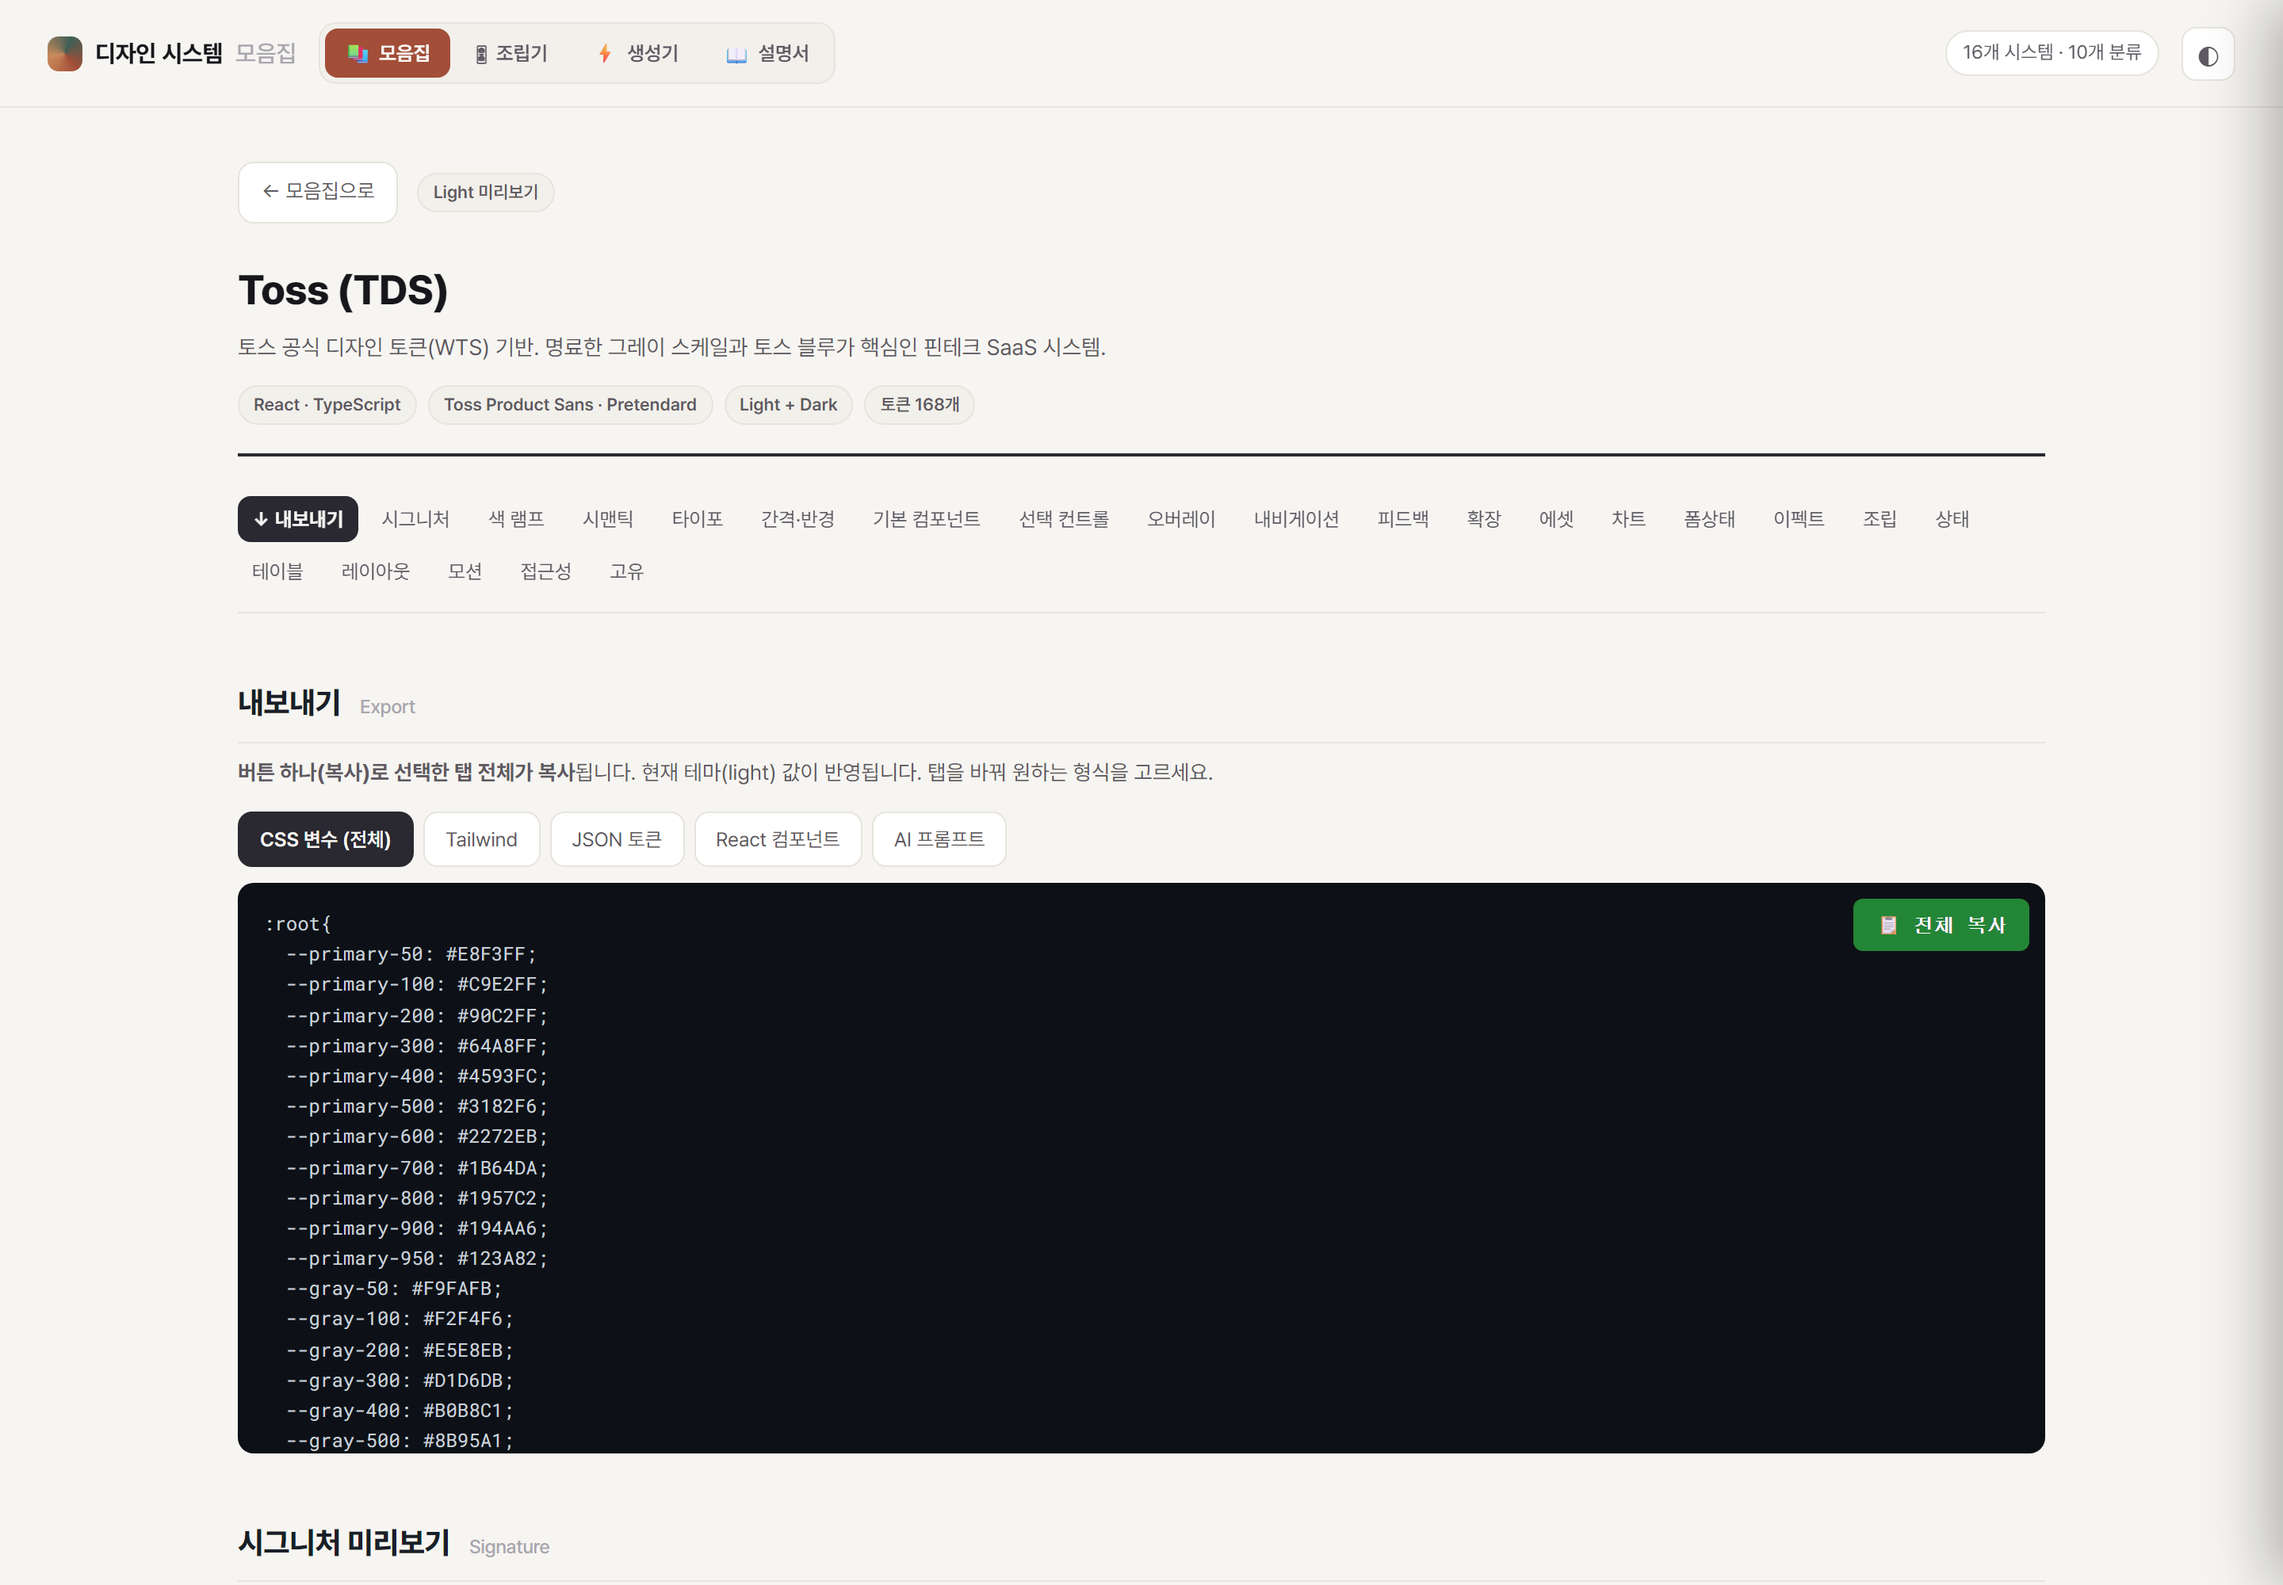
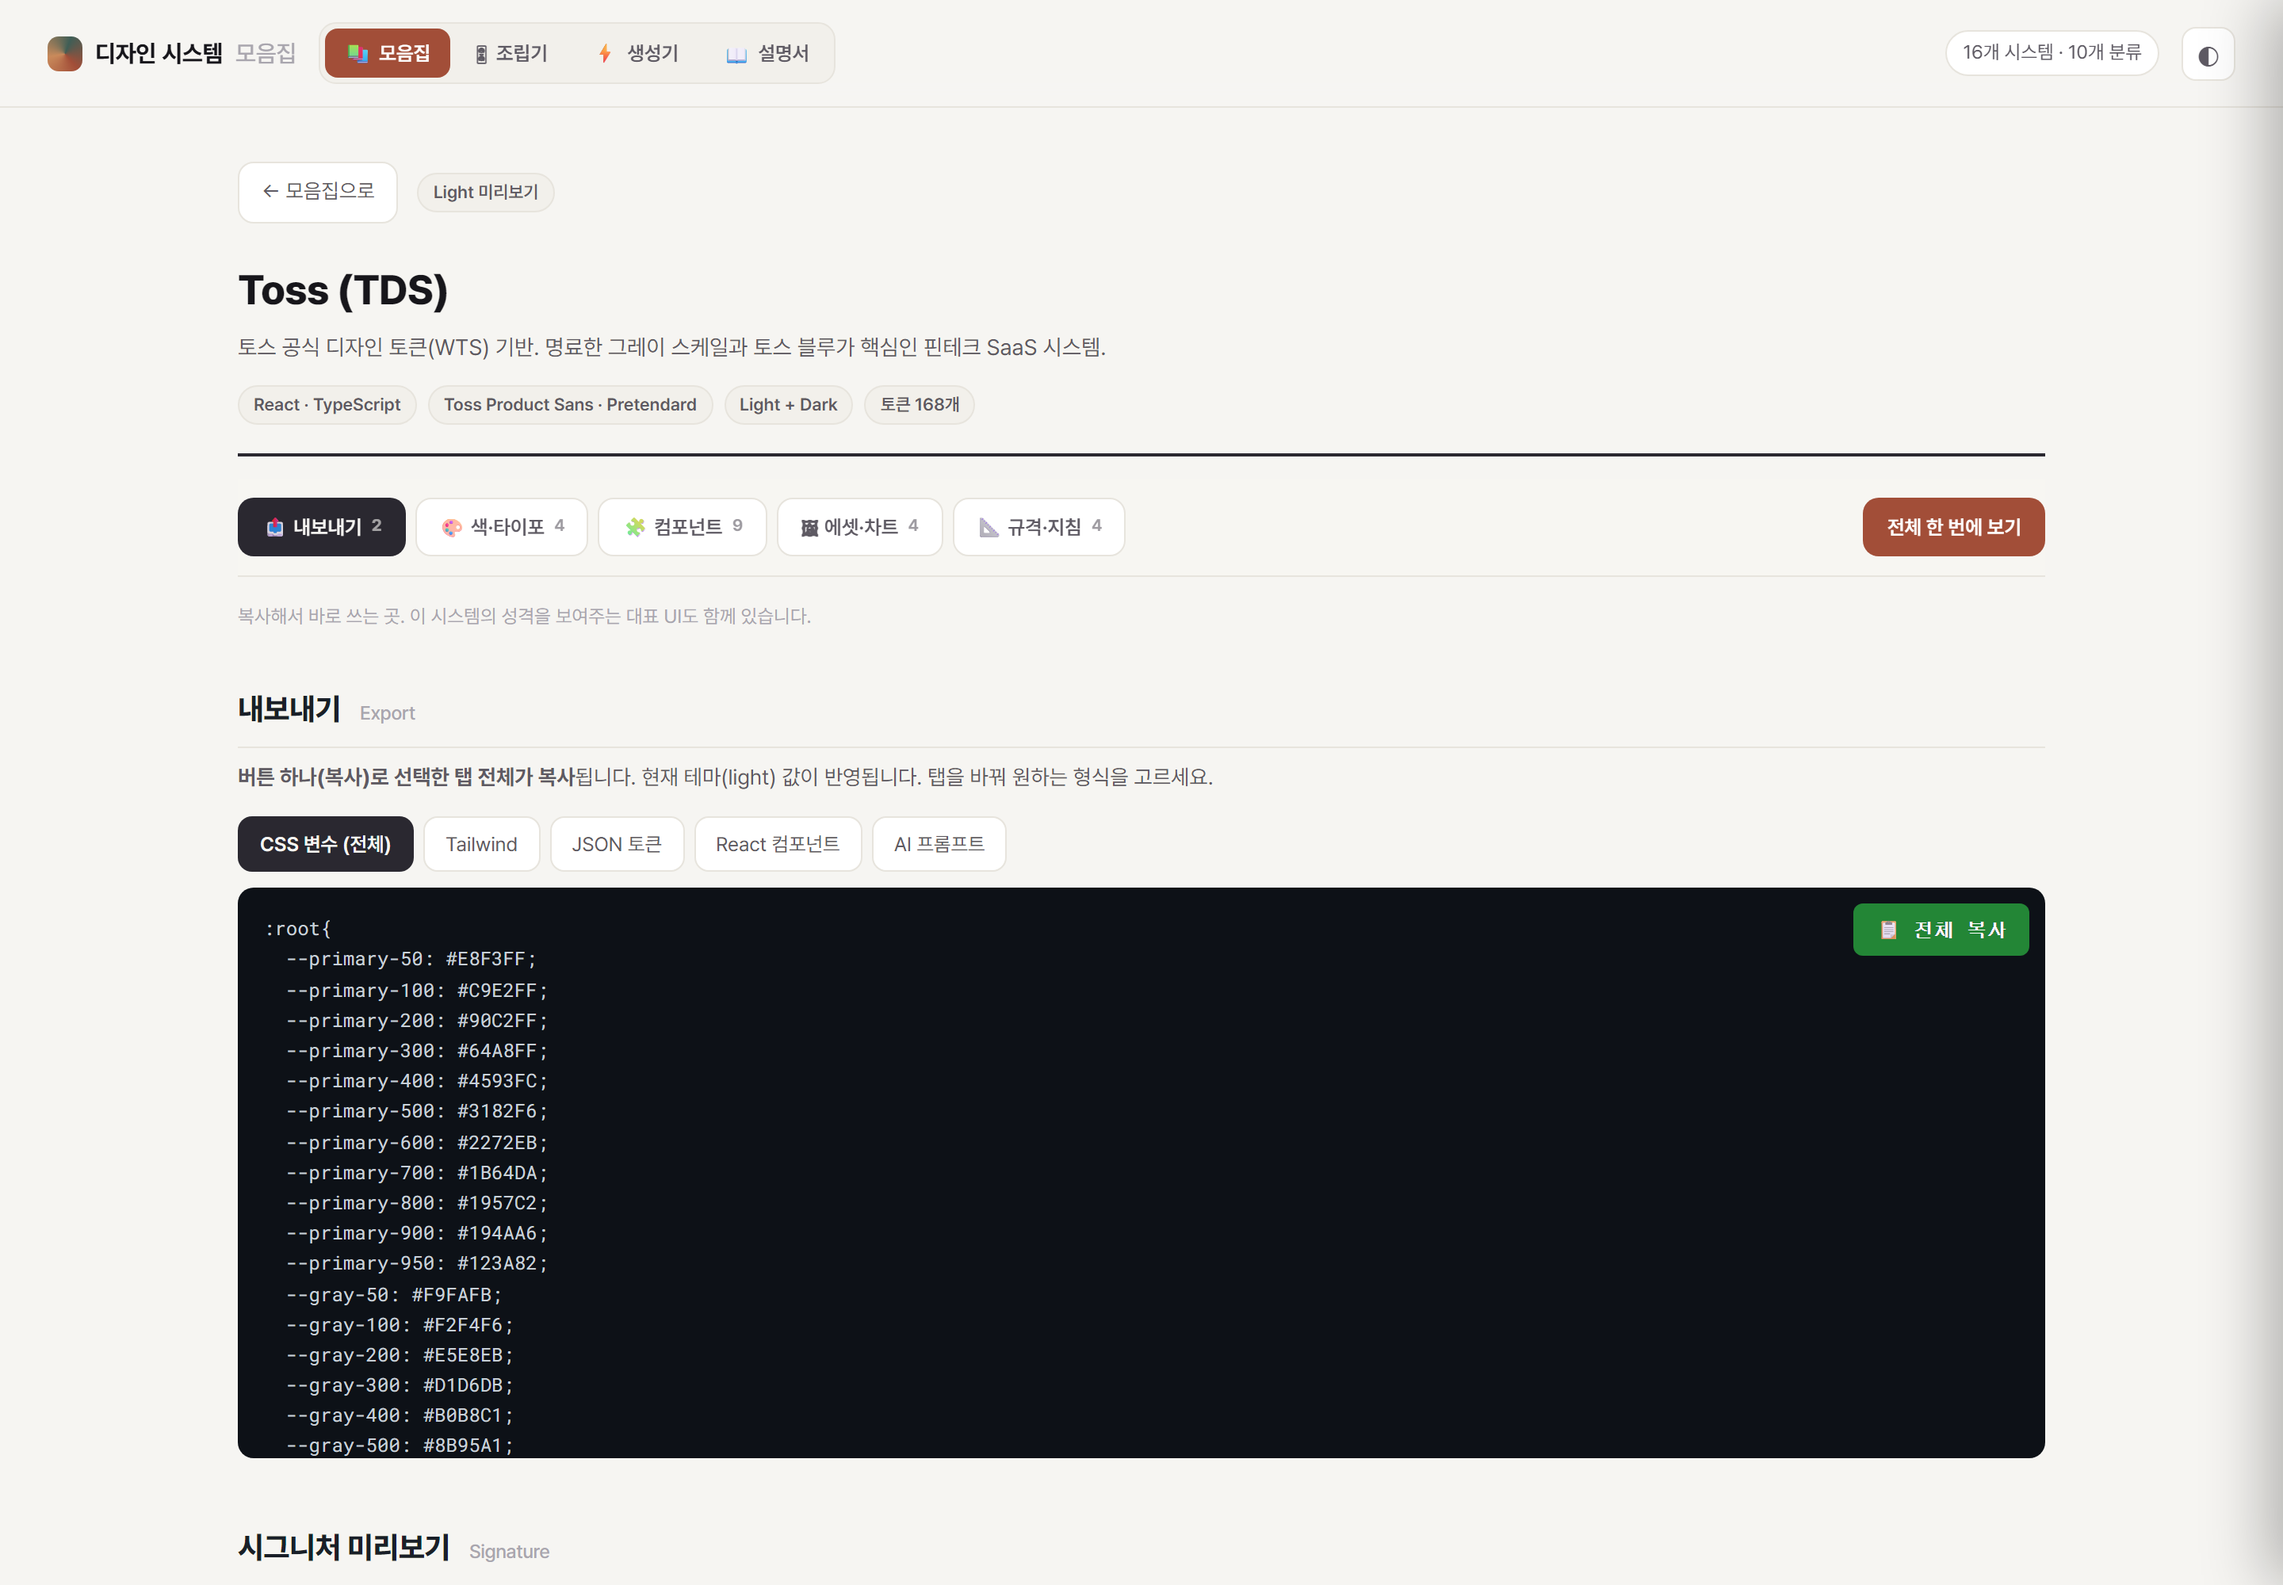
시스템 상세 내비게이션을 5개 그룹 탭으로 정리
22개 링크가 두 줄로 깔려 정신없던 문제 해결.
내보내기 / 색·타이포 / 컴포넌트 / 에셋·차트 / 규격·지침 으로 묶고
한 번에 한 그룹만 표시. '전체 한 번에 보기' 토글로 펼침 가능.

diff --git a/library.html b/library.html
@@ -186,6 +186,18 @@ a{color:inherit;text-decoration:none;}
 .dhead h1{font-size:26px;font-weight:800;letter-spacing:-.02em;margin:0 0 6px;}
 .dhead .sub{color:var(--ui-fg-lower);font-size:14px;max-width:74ch;}
 .dhead .meta{margin-top:12px;display:flex;flex-wrap:wrap;gap:7px;}
+.dtabs{position:sticky;top:57px;z-index:40;display:flex;gap:6px;flex-wrap:wrap;align-items:center;
+  background:color-mix(in srgb,var(--ui-canvas) 92%,transparent);backdrop-filter:blur(8px);
+  padding:12px 0;margin:14px 0 0;border-bottom:1px solid var(--ui-border);}
+.dtabs button{border:1px solid var(--ui-border);background:var(--ui-panel);color:var(--ui-fg-lower);
+  font:inherit;font-size:12.5px;font-weight:600;padding:8px 14px;border-radius:10px;cursor:pointer;
+  display:inline-flex;align-items:center;gap:6px;}
+.dtabs button:hover{border-color:var(--ui-fg-dim);color:var(--ui-fg-strong);}
+.dtabs button.on{background:var(--ui-fg-strong);color:var(--ui-canvas);border-color:transparent;}
+.dtabs button .cnt{font-size:10.5px;opacity:.6;font-weight:700;}
+.dtabs .exp{margin-left:auto;background:var(--ui-accent)!important;color:#fff!important;border-color:transparent!important;}
+.dsec.hide{display:none;}
+.grouphint{font-size:12px;color:var(--ui-fg-dim);margin:16px 0 -8px;}
 .dnav{position:sticky;top:57px;z-index:40;display:flex;flex-wrap:wrap;gap:4px 6px;background:color-mix(in srgb,var(--ui-canvas) 90%,transparent);backdrop-filter:blur(8px);padding:11px 0;margin:14px 0 0;border-bottom:1px solid var(--ui-border);font-size:12.5px;}
 .dnav a{color:var(--ui-fg-lower);padding:5px 9px;border-radius:8px;}
 .dnav a:hover{background:var(--ui-panel-2);color:var(--ui-fg-strong);}
@@ -578,14 +590,8 @@ footer{margin-top:60px;padding-top:20px;border-top:1px solid var(--ui-border);fo
   <div class="detail" id="detail">
     <div class="backbar"><button class="backbtn" onclick="showCatalog()">← 모음집으로</button><span class="pill" id="dCrumb"></span></div>
     <div class="dhead"><h1 id="dTitle"></h1><div class="sub" id="dSub"></div><div class="meta" id="dMeta"></div></div>
-    <div class="dnav">
-      <a href="#s-export" style="background:var(--ui-fg-strong);color:var(--ui-canvas);font-weight:700">↓ 내보내기</a>
-      <a href="#s-sig">시그니처</a>
-      <a href="#s-color">색 램프</a><a href="#s-semantic">시맨틱</a><a href="#s-type">타이포</a><a href="#s-space">간격·반경</a>
-      <a href="#s-comp">기본 컴포넌트</a><a href="#s-select">선택 컨트롤</a><a href="#s-overlay">오버레이</a><a href="#s-nav">내비게이션</a>
-      <a href="#s-feed">피드백</a><a href="#s-more">확장</a><a href="#s-assets">에셋</a><a href="#s-charts">차트</a><a href="#s-formstate">폼상태</a><a href="#s-fx">이펙트</a><a href="#s-build">조립</a><a href="#s-state">상태</a><a href="#s-table">테이블</a><a href="#s-layout">레이아웃</a>
-      <a href="#s-motion">모션</a><a href="#s-a11y">접근성</a><a href="#s-extra">고유</a>
-    </div>
+    <div class="dtabs" id="dTabs"></div>
+    <div class="grouphint" id="dHint"></div>
     <div class="scope" id="scope"></div>
     <footer>디자인 시스템 모음집 · 단일 HTML, 의존성 없음 · 새 시스템 추가 = <code class="mono">SYSTEMS</code> 배열에 객체 하나 push.</footer>
   </div>
@@ -1525,7 +1531,7 @@ function renderRecs(){
 }
 $('#searchInput').oninput=e=>{curQuery=e.target.value;renderCatalog();};
 function showCatalog(){$('#catalog').classList.remove('hidden');$('#detail').classList.remove('active');const sv=$('#sview');if(sv)sv.classList.remove('active');curSys=null;closeAllOverlays();window.scrollTo(0,0);}
-function openSystem(id){curSys=SYSTEMS.find(s=>s.id===id);const sv=$('#sview');if(sv)sv.classList.remove('active');$('#catalog').classList.add('hidden');$('#detail').classList.add('active');renderDetail(curSys);window.scrollTo(0,0);}
+function openSystem(id){dGroup='start';curSys=SYSTEMS.find(s=>s.id===id);const sv=$('#sview');if(sv)sv.classList.remove('active');$('#catalog').classList.add('hidden');$('#detail').classList.add('active');renderDetail(curSys);window.scrollTo(0,0);}
 
 /* ===================== RENDER PIECES ===================== */
 function rampRow(name,arr){return `<div class="ramp"><div class="lbl">${name}</div><div class="strip">${
@@ -1533,6 +1539,54 @@ function rampRow(name,arr){return `<div class="ramp"><div class="lbl">${name}</d
 function swatch(name,val){return `<div class="sw"><div class="chip" style="background:${val};border-bottom:1px solid var(--ui-border-low)"></div><div class="info"><b>${name.replace('--','')}</b><code data-copy="${val}">${(val||'').toUpperCase()}</code></div></div>`;}
 function semGroup(T,keys){return keys.filter(k=>T[k]).map(k=>swatch(k,T[k])).join('');}
 
+const DGROUPS=[
+ {k:'start', n:'\ud83d\udce4 \ub0b4\ubcf4\ub0b4\uae30', ids:['s-export','s-sig'],
+  h:'\ubcf5\uc0ac\ud574\uc11c \ubc14\ub85c \uc4f0\ub294 \uacf3. \uc774 \uc2dc\uc2a4\ud15c\uc758 \uc131\uaca9\uc744 \ubcf4\uc5ec\uc8fc\ub294 \ub300\ud45c UI\ub3c4 \ud568\uaed8 \uc788\uc2b5\ub2c8\ub2e4.'},
+ {k:'color', n:'\ud83c\udfa8 \uc0c9\u00b7\ud0c0\uc774\ud3ec', ids:['s-color','s-semantic','s-type','s-space'],
+  h:'\uc0c9 \ub7a8\ud504(50~950), \uc5ed\ud560\ubcc4 \uc2dc\ub9e8\ud2f1 \ud1a0\ud070, \uae00\uc790 \ud06c\uae30, \uc5ec\ubc31\u00b7\ubaa8\uc11c\ub9ac\u00b7\uadf8\ub9bc\uc790.'},
+ {k:'comp', n:'\ud83e\udde9 \ucef4\ud3ec\ub10c\ud2b8', ids:['s-comp','s-select','s-overlay','s-nav','s-feed','s-more','s-formstate','s-state','s-table'],
+  h:'\ubc84\ud2bc\u00b7\ud3fc\u00b7\ubaa8\ub2ec\u00b7\ud0ed\u00b7\ud45c \ub4f1 \uc2e4\uc81c UI \uc870\uac01\ub4e4. \uc2dc\uc2a4\ud15c\ub9c8\ub2e4 \ubaa8\uc591\uacfc \ud3f0\ud2b8\uac00 \ub2e4\ub985\ub2c8\ub2e4.'},
+ {k:'asset', n:'\ud83d\uddbc \uc5d0\uc14b\u00b7\ucc28\ud2b8', ids:['s-assets','s-charts','s-fx','s-build'],
+  h:'\uc544\uc774\ucf58 48\uac1c(SVG \uc800\uc7a5 \uac00\ub2a5), \uadf8\ub77c\ub514\uc5b8\ud2b8\u00b7\ud328\ud134, \ucc28\ud2b8, \uc774\ud399\ud2b8, \uc870\ub9bd \ube4c\ub354.'},
+ {k:'spec', n:'\ud83d\udcd0 \uaddc\uaca9\u00b7\uc9c0\uce68', ids:['s-layout','s-motion','s-a11y','s-extra'],
+  h:'\ub808\uc774\uc544\uc6c3 \uadf8\ub9ac\ub4dc, \ubaa8\uc158 \uc18d\ub3c4, \uc811\uadfc\uc131 \uac80\uc0ac, \uc774 \uc2dc\uc2a4\ud15c\ub9cc\uc758 \uaddc\uce59.'}
+];
+let dGroup='start';
+function applyGroup(){
+  const g=DGROUPS.find(function(x){return x.k===dGroup;})||DGROUPS[0];
+  document.querySelectorAll('#scope .dsec').forEach(function(sec){
+    sec.classList.toggle('hide', g.ids.indexOf(sec.id)<0);
+  });
+  const hint=document.getElementById('dHint'); if(hint) hint.textContent=g.h;
+  document.querySelectorAll('#dTabs button[data-g]').forEach(function(b){
+    b.classList.toggle('on', b.dataset.g===dGroup);
+  });
+}
+function renderDTabs(){
+  const el=document.getElementById('dTabs'); if(!el) return;
+  el.innerHTML=DGROUPS.map(function(g){
+    var n=g.ids.filter(function(id){return document.getElementById(id);}).length;
+    return '<button data-g="'+g.k+'">'+g.n+'<span class="cnt">'+n+'</span></button>';
+  }).join('')+'<button class="exp" data-g="__all">\uc804\uccb4 \ud55c \ubc88\uc5d0 \ubcf4\uae30</button>';
+  el.onclick=function(e){
+    var b=e.target.closest('button'); if(!b) return;
+    if(b.dataset.g==='__all'){
+      document.querySelectorAll('#scope .dsec').forEach(function(s){s.classList.remove('hide');});
+      el.querySelectorAll('button[data-g]').forEach(function(x){x.classList.remove('on');});
+      var hint=document.getElementById('dHint'); if(hint) hint.textContent='\ubaa8\ub4e0 \uc139\uc158\uc744 \ud3bc\uccd0\ub193\uc558\uc2b5\ub2c8\ub2e4.';
+      b.textContent='\ubb36\uc5b4\uc11c \ubcf4\uae30';
+      b.dataset.g='__group';
+      return;
+    }
+    if(b.dataset.g==='__group'){
+      b.textContent='\uc804\uccb4 \ud55c \ubc88\uc5d0 \ubcf4\uae30'; b.dataset.g='__all';
+      applyGroup(); return;
+    }
+    dGroup=b.dataset.g; applyGroup();
+    window.scrollTo({top:0,behavior:'smooth'});
+  };
+  applyGroup();
+}
 function renderDetail(sys){
   const T=allTokens(sys);
   const scope=$('#scope');
@@ -1861,6 +1915,7 @@ function renderDetail(sys){
 
   // wiring
   wireDetail(sys);
+  renderDTabs();
 }
 
 function renderContrast(T){
